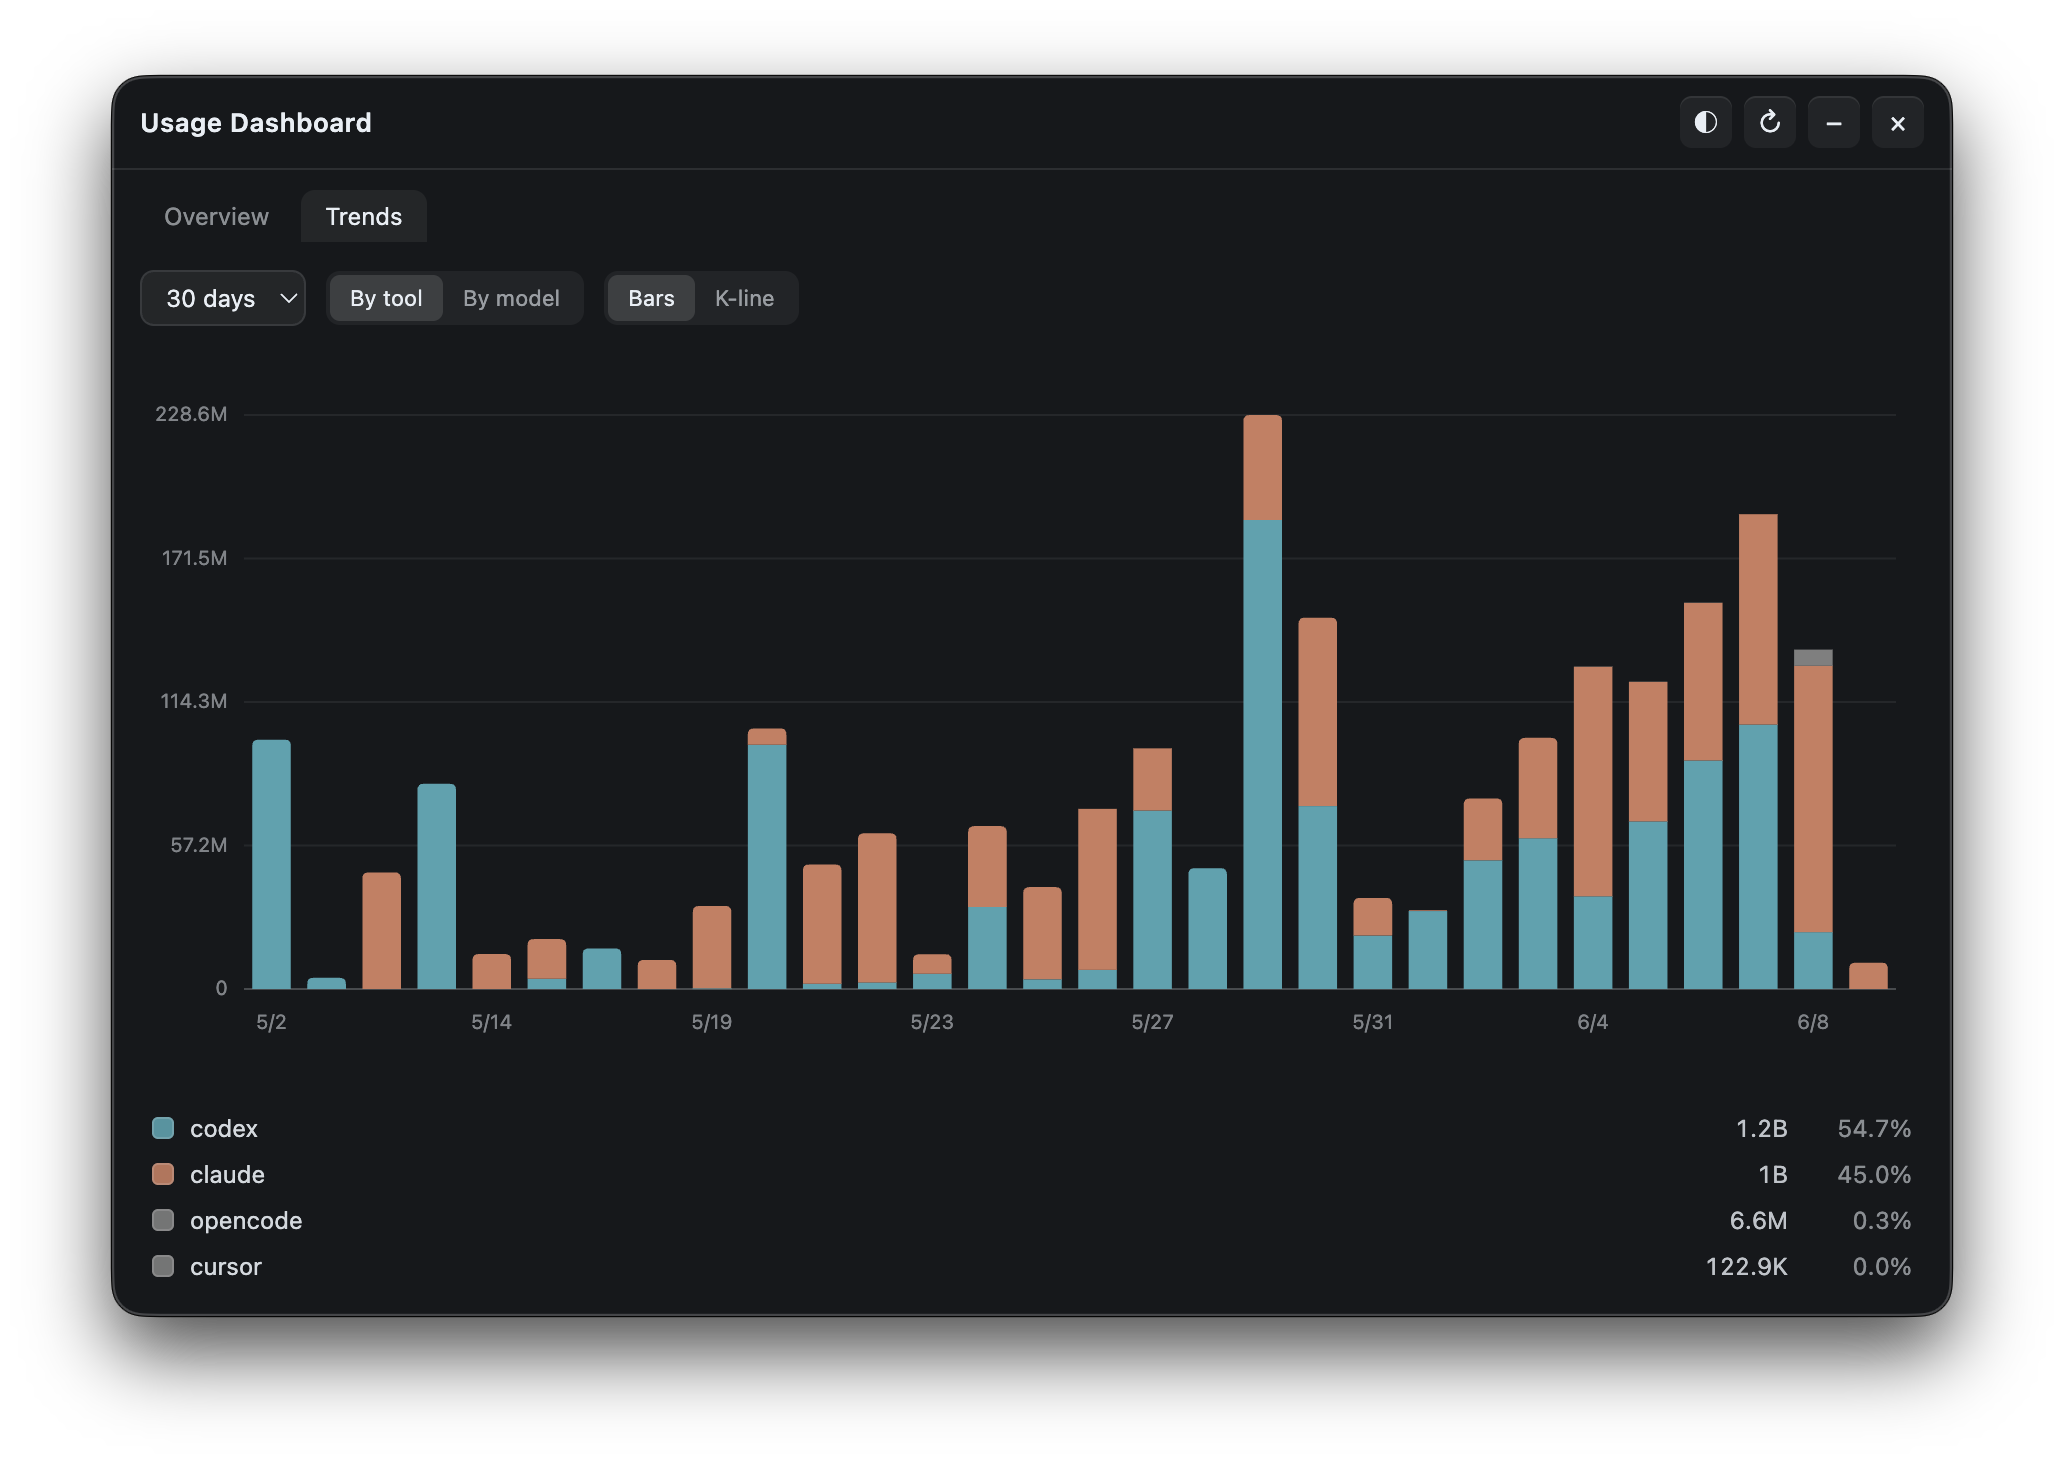
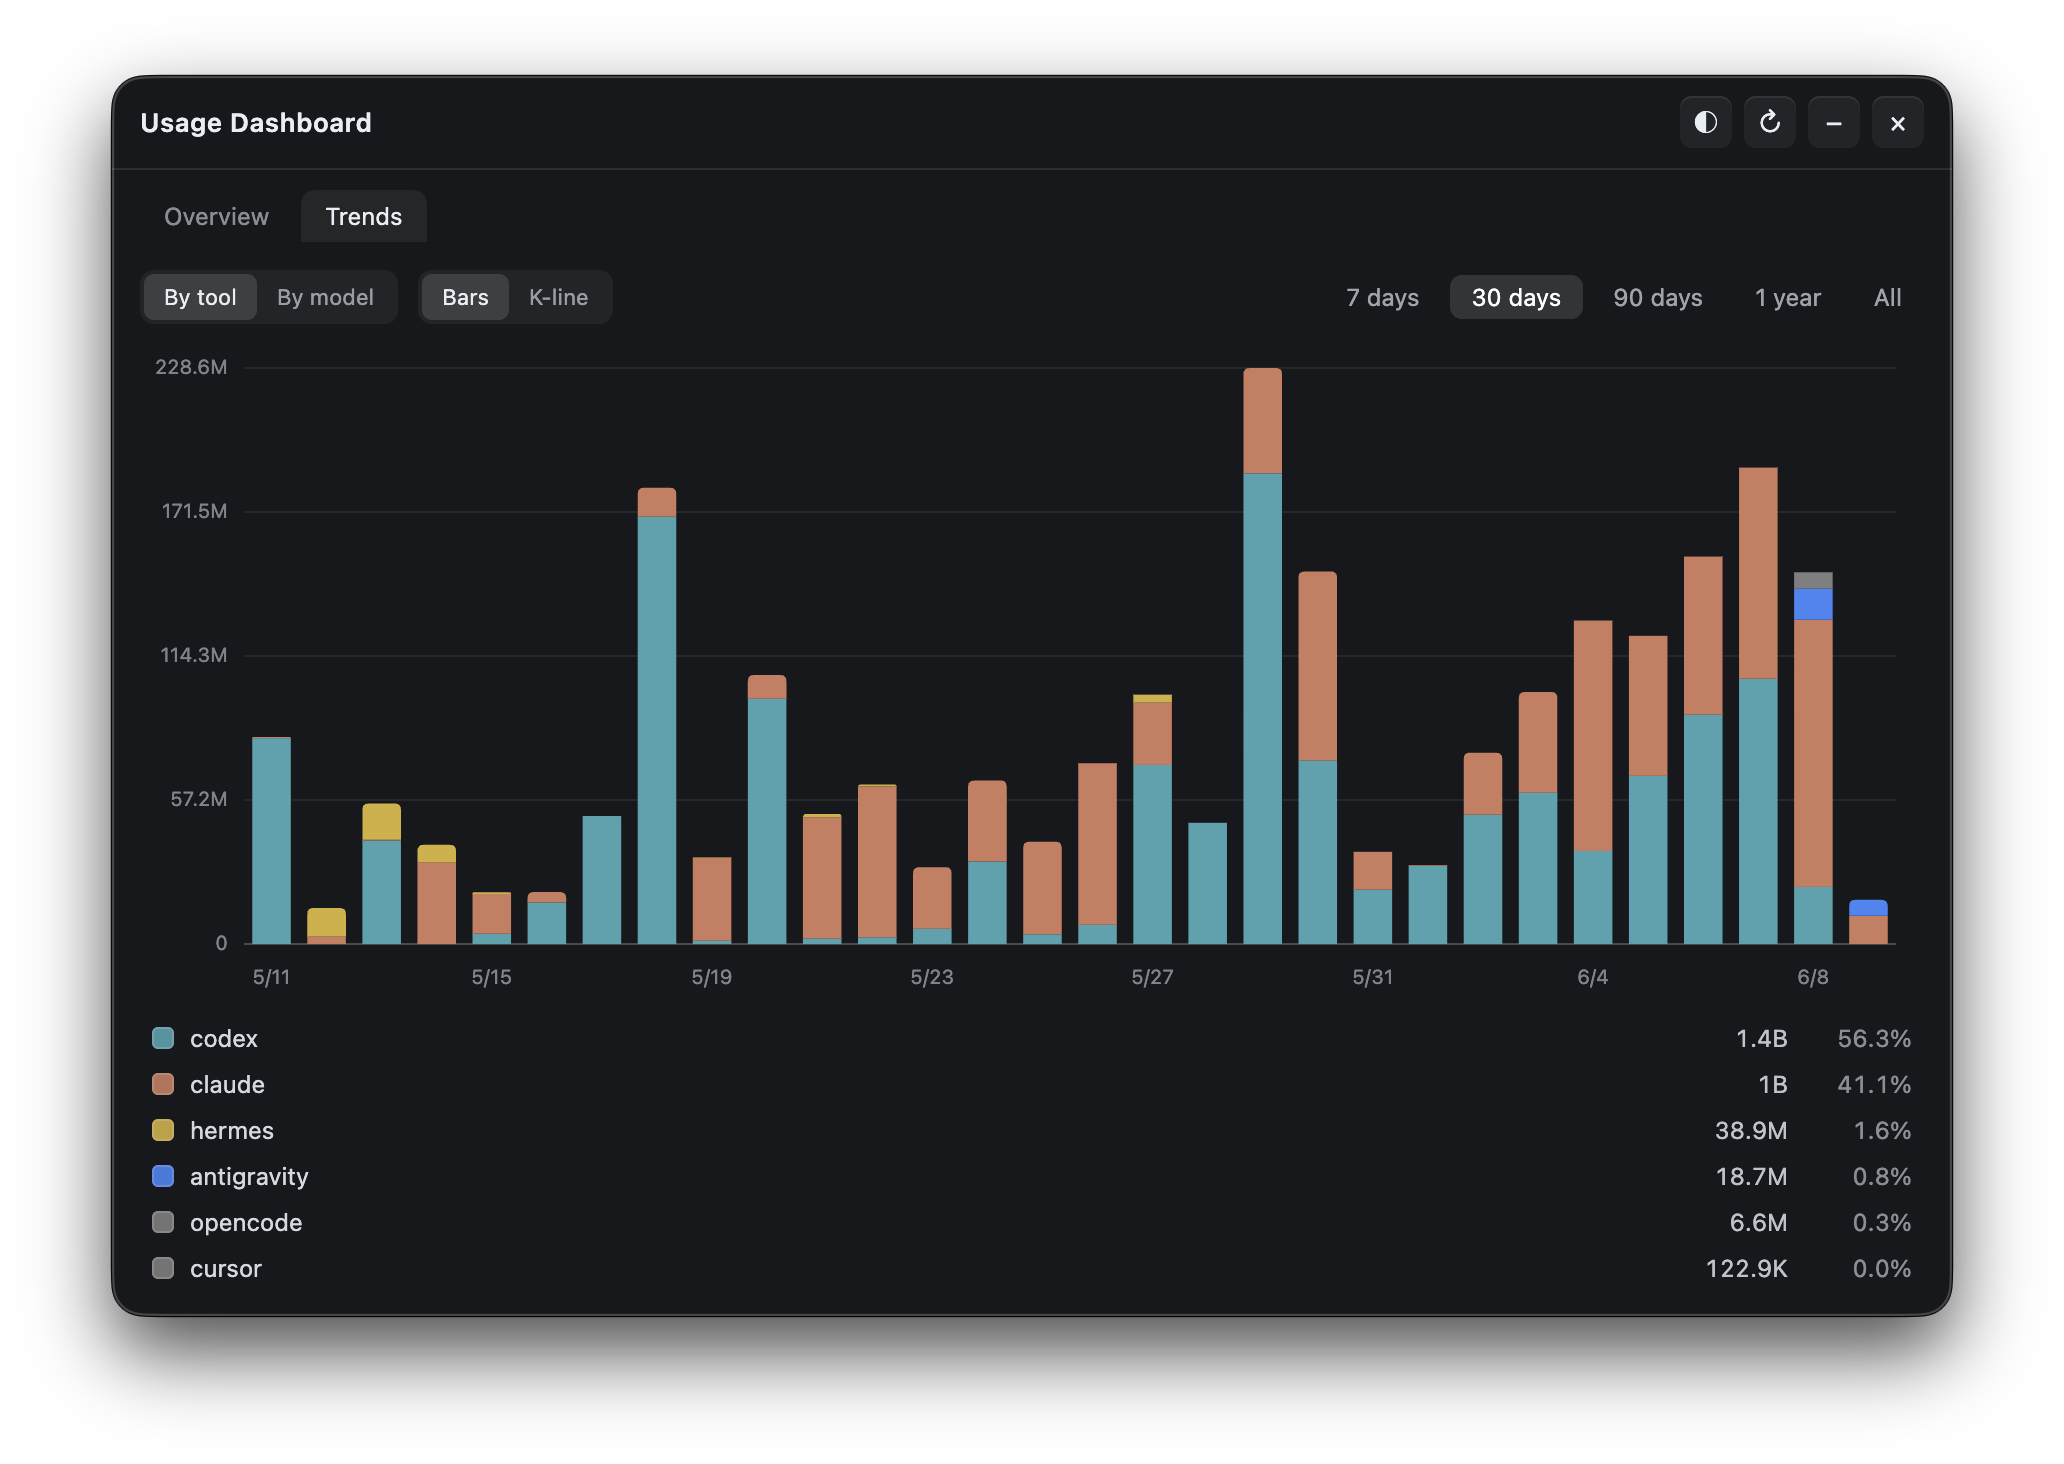
feat: add top models and tools breakdown with progress bars to dashboard

diff --git a/src/electron/renderer/dashboard.js b/src/electron/renderer/dashboard.js
@@ -110,6 +110,7 @@ function colorFor(key) {
 // colors are carried in data-c and applied via the CSSOM (.style, which CSP allows).
 function applySwatchColors(root) {
   root.querySelectorAll('[data-c]').forEach((el) => { el.style.background = el.getAttribute('data-c'); });
+  root.querySelectorAll('[data-w]').forEach((el) => { el.style.width = el.getAttribute('data-w'); });
 }
 
 function renderLegend(model) {
@@ -161,6 +162,47 @@ function renderTrends() {
   els.chart.innerHTML = charts.barsChartSvg(model, { colorFor, yTicks: 4, formatTick: formatCompact, axisLabel: (bar, i) => (i % every === 0 ? shortDate(bar.label) : '') });
 }
 
+function renderBreakdown() {
+  const elsBreakdown = document.getElementById('dashBreakdown');
+  if (!elsBreakdown) return;
+  const daily = state.history?.daily || [];
+  if (daily.length === 0) { elsBreakdown.innerHTML = ''; return; }
+  
+  const clientTotals = {};
+  const modelTotals = {};
+  let grandTotal = 0;
+  
+  for (const d of daily) {
+    if (d.perClient) Object.entries(d.perClient).forEach(([k, v]) => clientTotals[k] = (clientTotals[k] || 0) + Number(v.tokens || 0));
+    if (d.perModel) Object.entries(d.perModel).forEach(([k, v]) => modelTotals[k] = (modelTotals[k] || 0) + Number(v.tokens || 0));
+    grandTotal += Number(d.tokens || 0);
+  }
+  
+  const buildCol = (titleKey, map, colorFn) => {
+    const rows = Object.entries(map).filter(x => x[1] > 0).sort((a, b) => b[1] - a[1]).slice(0, 5);
+    if (rows.length === 0) return '';
+    const maxVal = Math.max(...rows.map(x => x[1]));
+    const html = rows.map(([key, val]) => {
+      const pctGrand = grandTotal > 0 ? (val / grandTotal * 100).toFixed(1) : '0.0';
+      const pctMax = maxVal > 0 ? (val / maxVal * 100).toFixed(1) : '0.0';
+      const color = displayColor(colorFn(key));
+      return `<div class="dash-bd-row">
+        <span class="dash-bd-name"><span class="dash-bd-swatch" data-c="${color}"></span>${String(key).replace(/&/g, '&amp;').replace(/</g, '&lt;').replace(/>/g, '&gt;').replace(/"/g, '&quot;')}</span>
+        <div class="dash-bd-bar-bg"><div class="dash-bd-bar-fill" data-w="${pctMax}%" data-c="${color}"></div></div>
+        <span class="dash-bd-val">${formatCompact(val)}</span>
+        <span class="dash-bd-pct">${pctGrand}%</span>
+      </div>`;
+    }).join('');
+    return `<div class="dash-breakdown-col"><div class="dash-breakdown-title" data-i18n="${titleKey}">${t(titleKey)}</div>${html}</div>`;
+  };
+  
+  const colModel = buildCol('dashboard.stack.model', modelTotals, charts.modelColor);
+  const colClient = buildCol('dashboard.stack.client', clientTotals, (k) => charts.clientColors[k] || charts.clientColors.default);
+  
+  elsBreakdown.innerHTML = colModel + colClient;
+  applySwatchColors(elsBreakdown);
+}
+
 function renderActivity() {
   const daily = state.history?.daily || [];
   const end = todayKey();
@@ -191,6 +233,7 @@ function renderActivity() {
     label: (k) => t(LABELS[k] || k),
     format: (c) => (c.kind === 'cost' ? formatCostCompact(c.value) : c.kind === 'model' ? (c.value || '—') : formatCompact(c.value))
   });
+  renderBreakdown();
 }
 
 function render() {

diff --git a/src/electron/renderer/dashboard.css b/src/electron/renderer/dashboard.css
@@ -87,6 +87,16 @@ body.flat { background: #16181b; }
 .dash-card-v { font-size: 19px; font-weight: 600; font-variant-numeric: tabular-nums; white-space: nowrap; overflow: hidden; text-overflow: ellipsis; }
 .dash-card-k { font-size: 10px; opacity: 0.55; text-transform: uppercase; letter-spacing: 0.03em; white-space: nowrap; overflow: hidden; text-overflow: ellipsis; }
 
+.dash-breakdown { flex: none; display: flex; gap: 32px; padding-top: 6px; }
+.dash-breakdown-col { flex: 1; min-width: 0; display: flex; flex-direction: column; gap: 6px; }
+.dash-breakdown-title { font-size: 12px; font-weight: 600; opacity: 0.6; margin-bottom: 2px; text-transform: uppercase; letter-spacing: 0.04em; }
+.dash-bd-row { display: flex; align-items: center; gap: 12px; font-size: 12px; padding: 2px 0; }
+.dash-bd-name { flex: none; width: 110px; display: flex; align-items: center; gap: 8px; opacity: 0.9; white-space: nowrap; overflow: hidden; text-overflow: ellipsis; }
+.dash-bd-bar-bg { flex: 1; height: 4px; background: rgba(255, 255, 255, 0.06); border-radius: 2px; overflow: hidden; }
+.dash-bd-bar-fill { height: 100%; border-radius: 2px; }
+.dash-bd-val { flex: none; font-variant-numeric: tabular-nums; opacity: 0.8; text-align: right; }
+.dash-bd-pct { flex: none; width: 42px; font-variant-numeric: tabular-nums; opacity: 0.55; text-align: right; }
+
 .dash-tooltip { position: fixed; z-index: 50; pointer-events: none; min-width: 130px; padding: 9px 11px; border-radius: 9px; font-size: 12px; background: rgba(18, 20, 24, 0.96); border: 1px solid rgba(255, 255, 255, 0.1); box-shadow: 0 10px 28px rgba(0, 0, 0, 0.45); }
 .dash-tooltip.hidden { display: none; }
 .tt-head { font-weight: 600; margin-bottom: 6px; font-variant-numeric: tabular-nums; }

diff --git a/src/electron/renderer/dashboard.html b/src/electron/renderer/dashboard.html
@@ -47,6 +47,7 @@
         <div class="dash-heatmap-title" data-i18n="dashboard.heatmap.title">Token Activity</div>
         <div id="dashHeatmap" class="dash-heatmap-wrap"></div>
       </div>
+      <div id="dashBreakdown" class="dash-breakdown"></div>
     </section>
 
     <div id="dashEmpty" class="dash-empty hidden" data-i18n="dashboard.empty">No usage history yet</div>